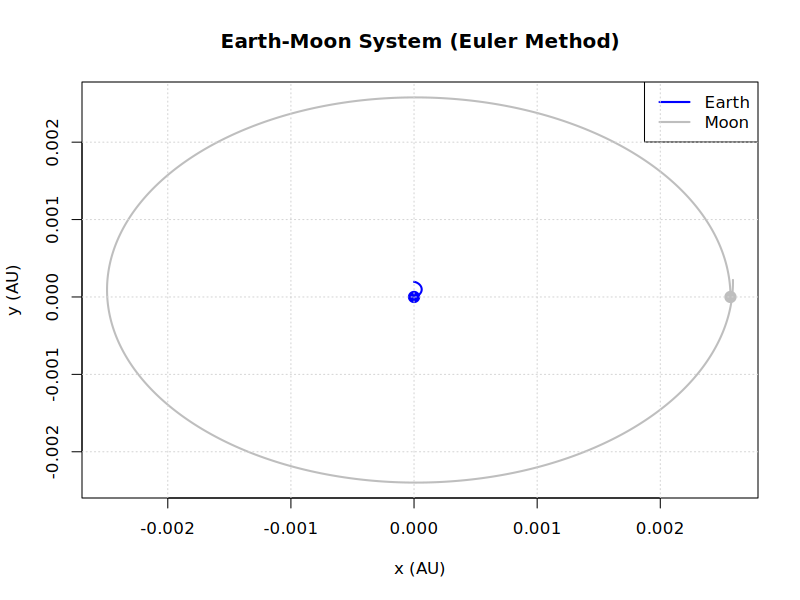
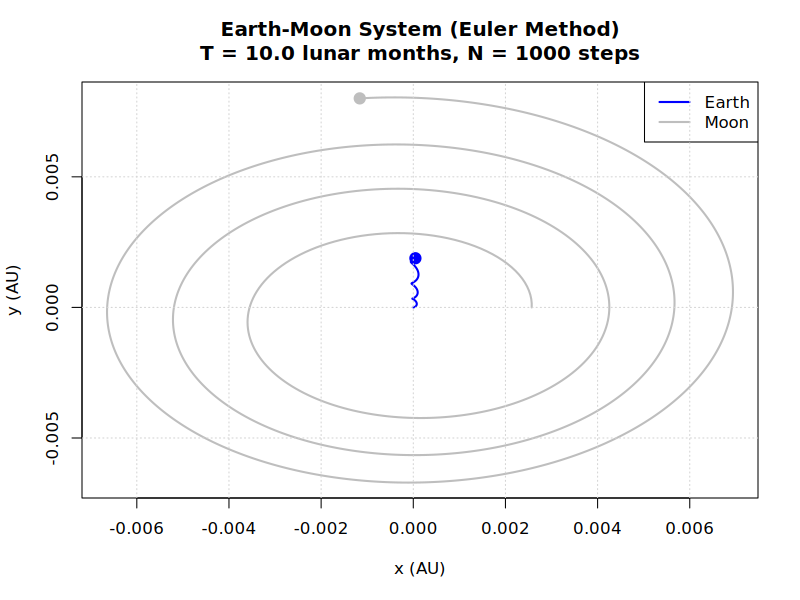
earth moon systems for all methods

diff --git a/README.md b/README.md
@@ -73,11 +73,11 @@ source("Lorem_Ipsum.R")
 ![Euler Method Trajectory](images/euler_trajectory.png)
 
 ```r
-# Compare methods for Earth-Moon system
-source("examples/earth_moon.R")
+# Compare methods for Earth-Moon system using the Euler method
+source("examples/earth_moon_euler.R")
 ```
 
-![Earth and Moon](images/earth_moon.png)
+![Earth and Moon](images/earth_moon_euler.png)
 
 ---
 
